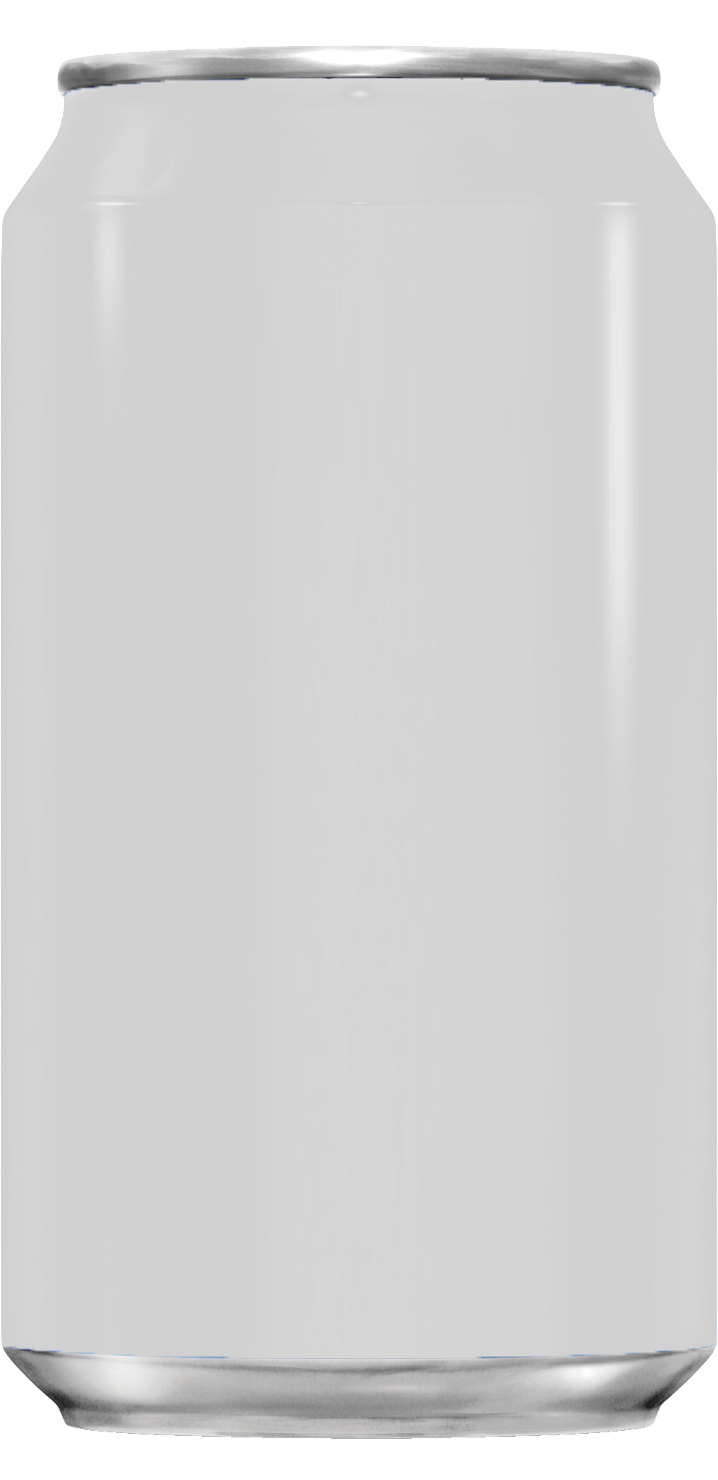
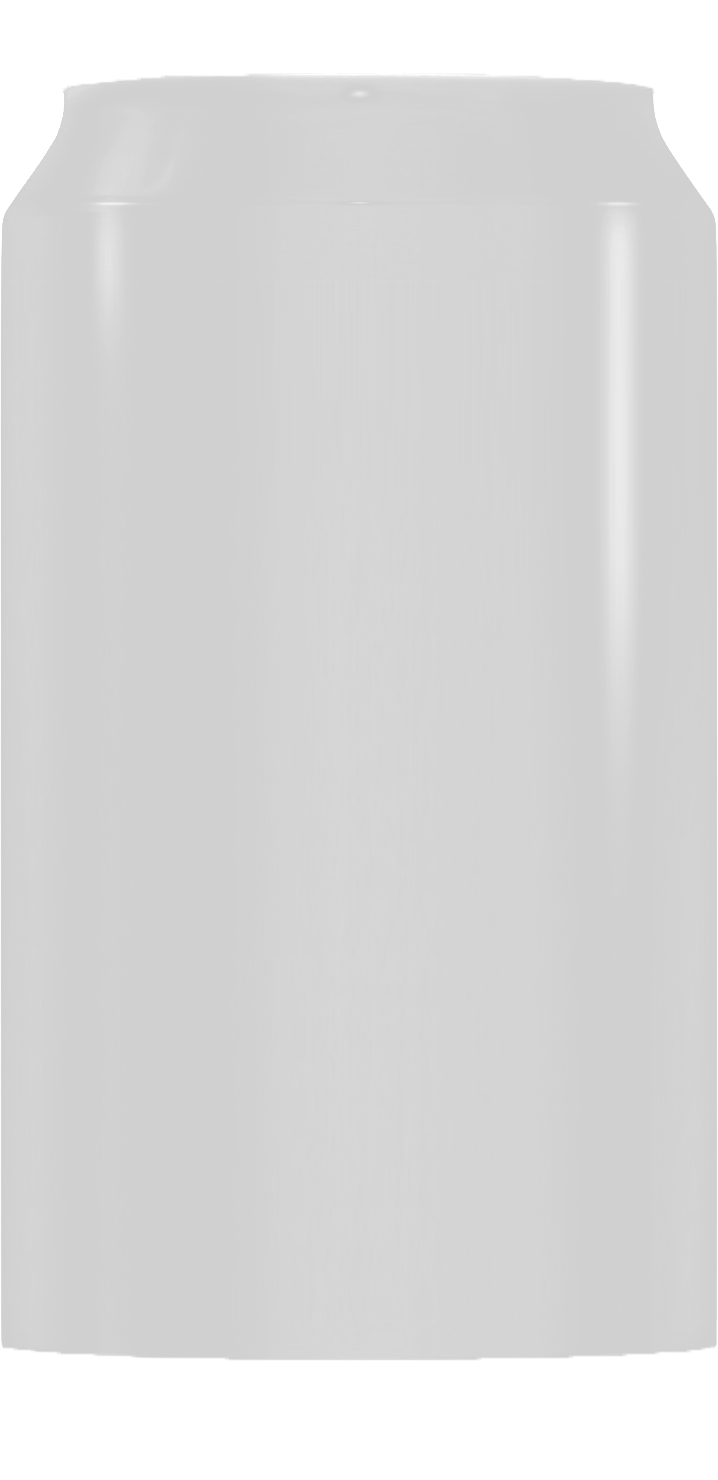
better fantas

Changed region(s): [[0.0, 0.9014, 1.0, 0.9946], [0.0613, 0.0311, 0.9192, 0.0622]]

diff --git a/assets/css.css b/assets/css.css
@@ -5,7 +5,7 @@ body {
 	align-items: center;
 	justify-content: center;
 	position: absolute;
-	filter: saturate(1.75);
+	filter: saturate(1.5);
 	-webkit-font-smoothing: antialiased;
 }
 
@@ -18,7 +18,18 @@ x-fanta {
 	-webkit-mask-size: contain;
 }
 
+x-fanta:before {
+	background: url(./can.png) no-repeat center;
+	mix-blend-mode: color-dodge;
+	z-index: 98;
+}
 x-fanta:after {
+	background: url(./can-cap.png) no-repeat center;
+	z-index: 99;
+}
+
+x-fanta:after,
+x-fanta:before {
 	content: '';
 	position: absolute;
 	top: 0;
@@ -27,7 +38,6 @@ x-fanta:after {
 	bottom: 0;
 	width: 100%;
 	width: 100%;
-	background: url(./can.png) no-repeat center;
 	background-size: contain;
 	pointer-events: none;
 }

diff --git a/app.js b/app.js
@@ -2,5 +2,5 @@ const app = require('./src/express.js');
 const config = require('./.fantarc');
 
 app.listen(config.ports.live, () =>
-	console.log(`Listening on port ${config.ports.live}!`)
+	console.log(`🍦 Running on http://localhost:${config.ports.live}/ !`)
 );

diff --git a/src/make-post.js b/src/make-post.js
@@ -1,4 +1,3 @@
-const maker = require('./make-product');
 const fs = require('fs');
 const { randomArrKey, txtToArr } = require('./lib/helper');
 
